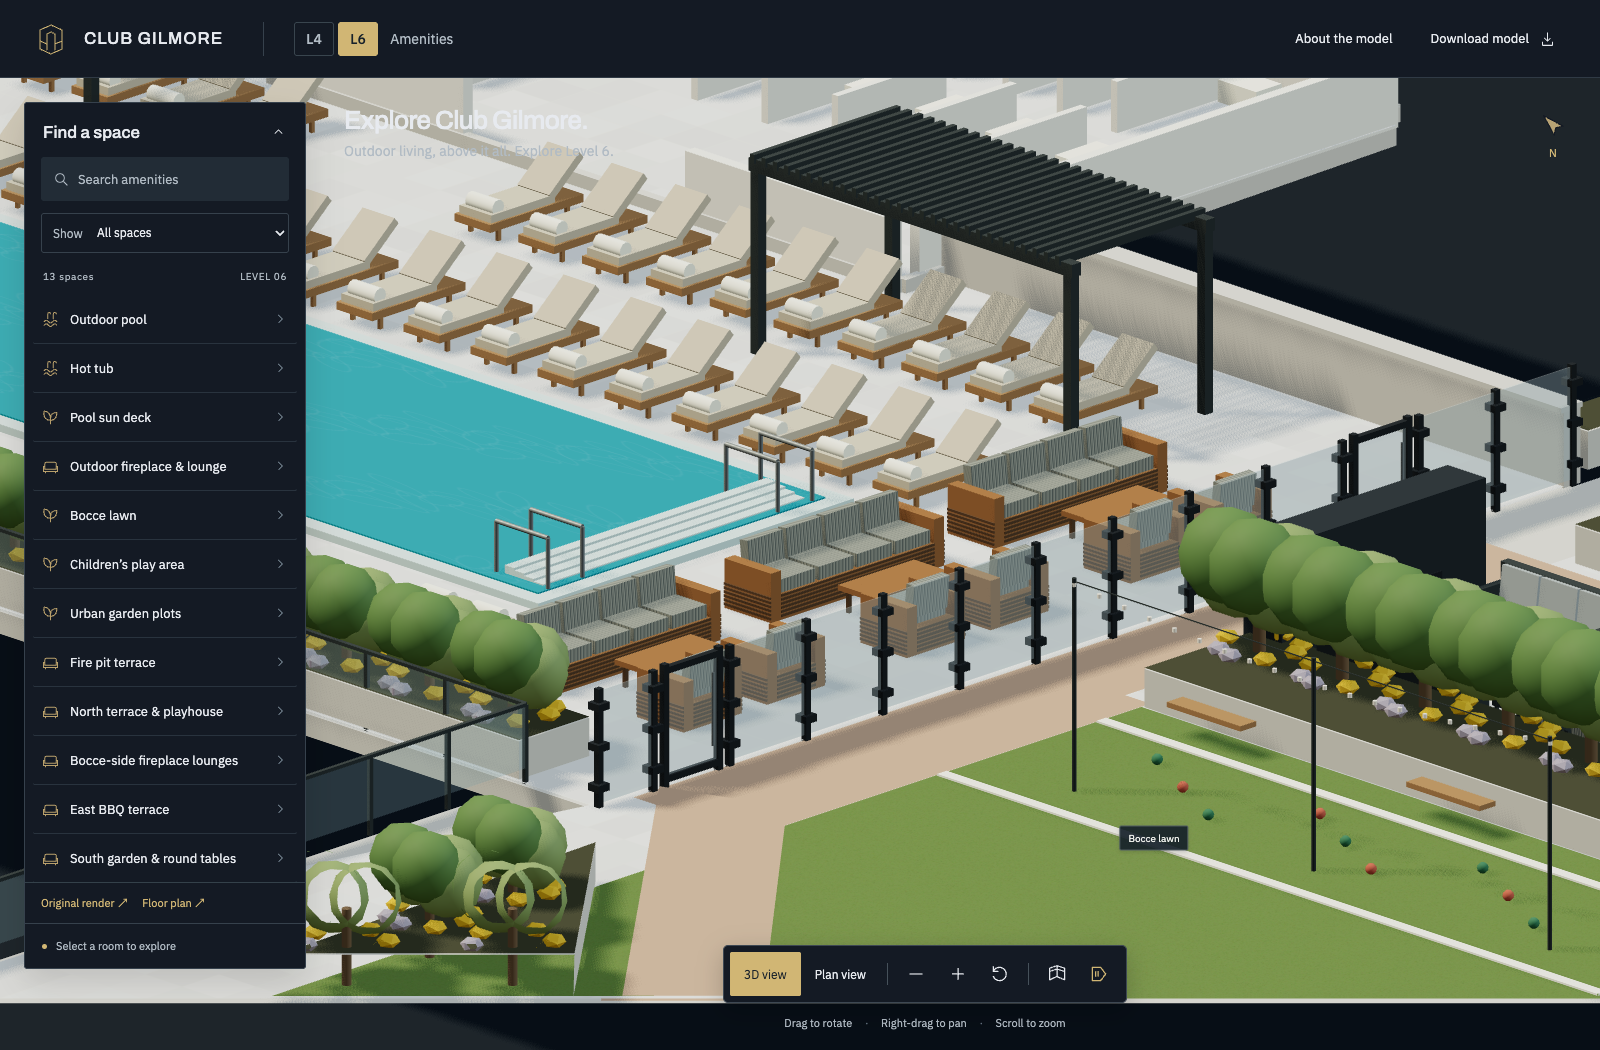
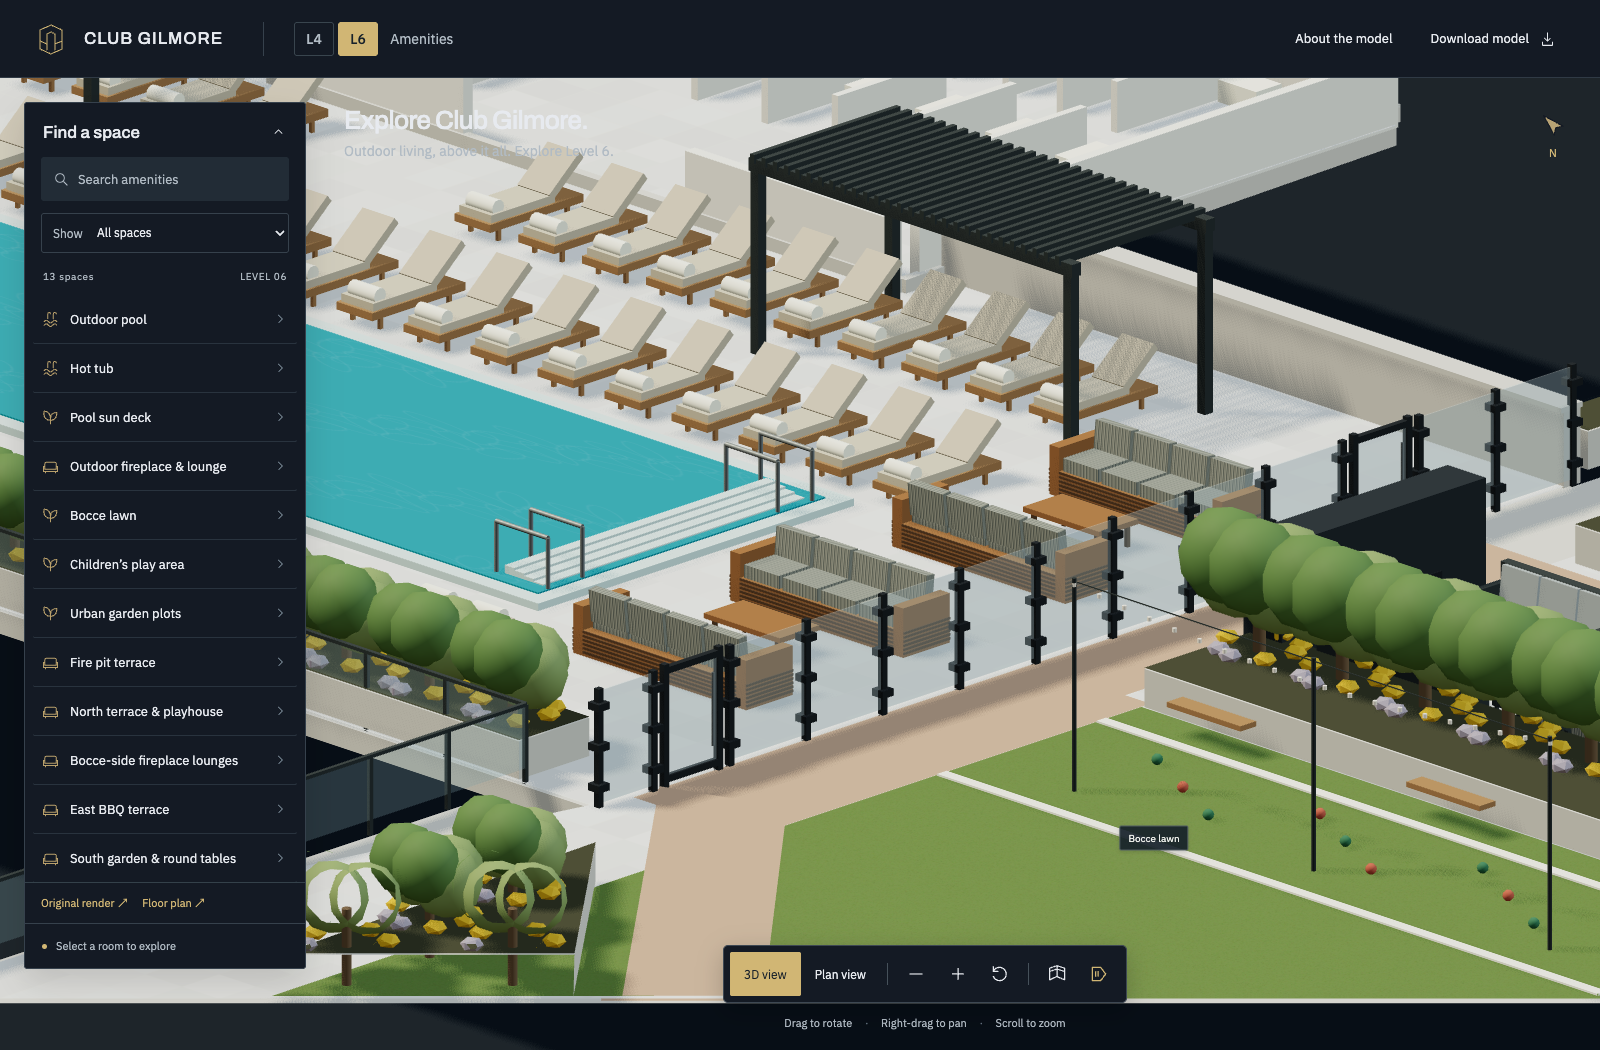
Rebuild pool deck lounge as four sofas and two tables

Changed region(s): [[0.3125, 0.3962, 0.8125, 0.701]]

diff --git a/src/level6.js b/src/level6.js
@@ -93,13 +93,13 @@ export function createLevel6Model(){
    for(let i=0;i<6;i++)box(g,side*(width/2+.205),.09+i*.062,0,.02,.036,.95,'walnut');}
  };
  const deckTable=(parent,x,z)=>{const g=makeGroup(parent,x,z);g.name='Teak coffee table';box(g,0,.42,0,1.55,.08,.8,teak);for(const xx of [-.64,.64])for(const zz of [-.31,.31])box(g,xx,.21,zz,.06,.42,.06,'walnut');};
- // Open-U group: a four-module run facing two single modules across the table.
- const deckLounge=(x,z,rotation=0)=>{
-  const [a,b]=world([x,z]),g=makeGroup(props,a,b,rotation);g.name='Pool deck lounge group';
-  deckSofa(g,0,-1.25,0,4);deckTable(g,0,0);
-  for(const side of [-1,1])deckSofa(g,side*.85,1.2,Math.PI,1);
+ // Site aerial: four large sofas and two tables only — no single modules — and
+ // the sofas are turned 90° so their length runs across the deck toward the pool.
+ const deckPair=(x,z)=>{
+  const [a,b]=world([x,z]),g=makeGroup(props,a,b,0);g.name='Pool deck lounge pair';
+  deckSofa(g,0,-1.6,0,4);deckTable(g,0,0);deckSofa(g,0,1.6,Math.PI,4);
  };
- for(const z of [690,760,830])deckLounge(612,z,Math.PI/2);
+ deckPair(610,700);deckPair(610,800);
  // IMG_4025/4026: a frameless glass safety fence encloses the pool deck along
  // the timber walkway, gated where that walkway meets the deck. Only this east
  // run is photographed; the remaining enclosure edges are not yet evidenced.

diff --git a/MODEL-SOURCES.md b/MODEL-SOURCES.md
@@ -131,3 +131,12 @@ trace segments (40,596)–(265,596) and (465,596)–(660,596) are now a 1.15 m p
 stone cap, and the glass run extends to the corner at z=596 to meet it. Parapet height is
 proportional to the photograph, not a measured dimension.
 
+### Pool deck lounge layout — user's marked aerial crop
+
+The user's red-boxed crop of the site aerial settles the lounge composition, superseding both
+earlier attempts. The zone holds **four large sofas and two tables only** — there are no single
+armchair modules — arranged as two facing pairs, each pair sharing one table. The sofas are also
+turned 90° from the previous modelling: their length runs across the deck toward the pool, not
+along the fence line. Modelled as `deckPair` at trace (610,700) and (610,800). Pair spacing and
+the gap to the pool coping are proportional readings of the crop, not measurements.
+

diff --git a/QA.md b/QA.md
@@ -83,3 +83,9 @@ groups now face the pool, both gates read as separate openings, and the glass fe
 against the new north parapet rather than at an open post. Evidence refreshed in
 `evidence/level6-pool-enclosure.png` and `evidence/level6-pool-enclosure-plan.png`.
 
+Deck lounge layout correction (four sofas, two tables, rotated 90°): production build passes and
+`scripts/verify-level6.cjs` returns **PASS** at 18,678,208 export bytes with zero page JavaScript
+errors. Inspected a fresh Chrome 3D render against the user's marked aerial crop: four large
+sofas in two facing pairs, two tables, length running toward the pool. Evidence refreshed in
+`evidence/level6-pool-enclosure.png` and `evidence/level6-pool-enclosure-plan.png`.
+
